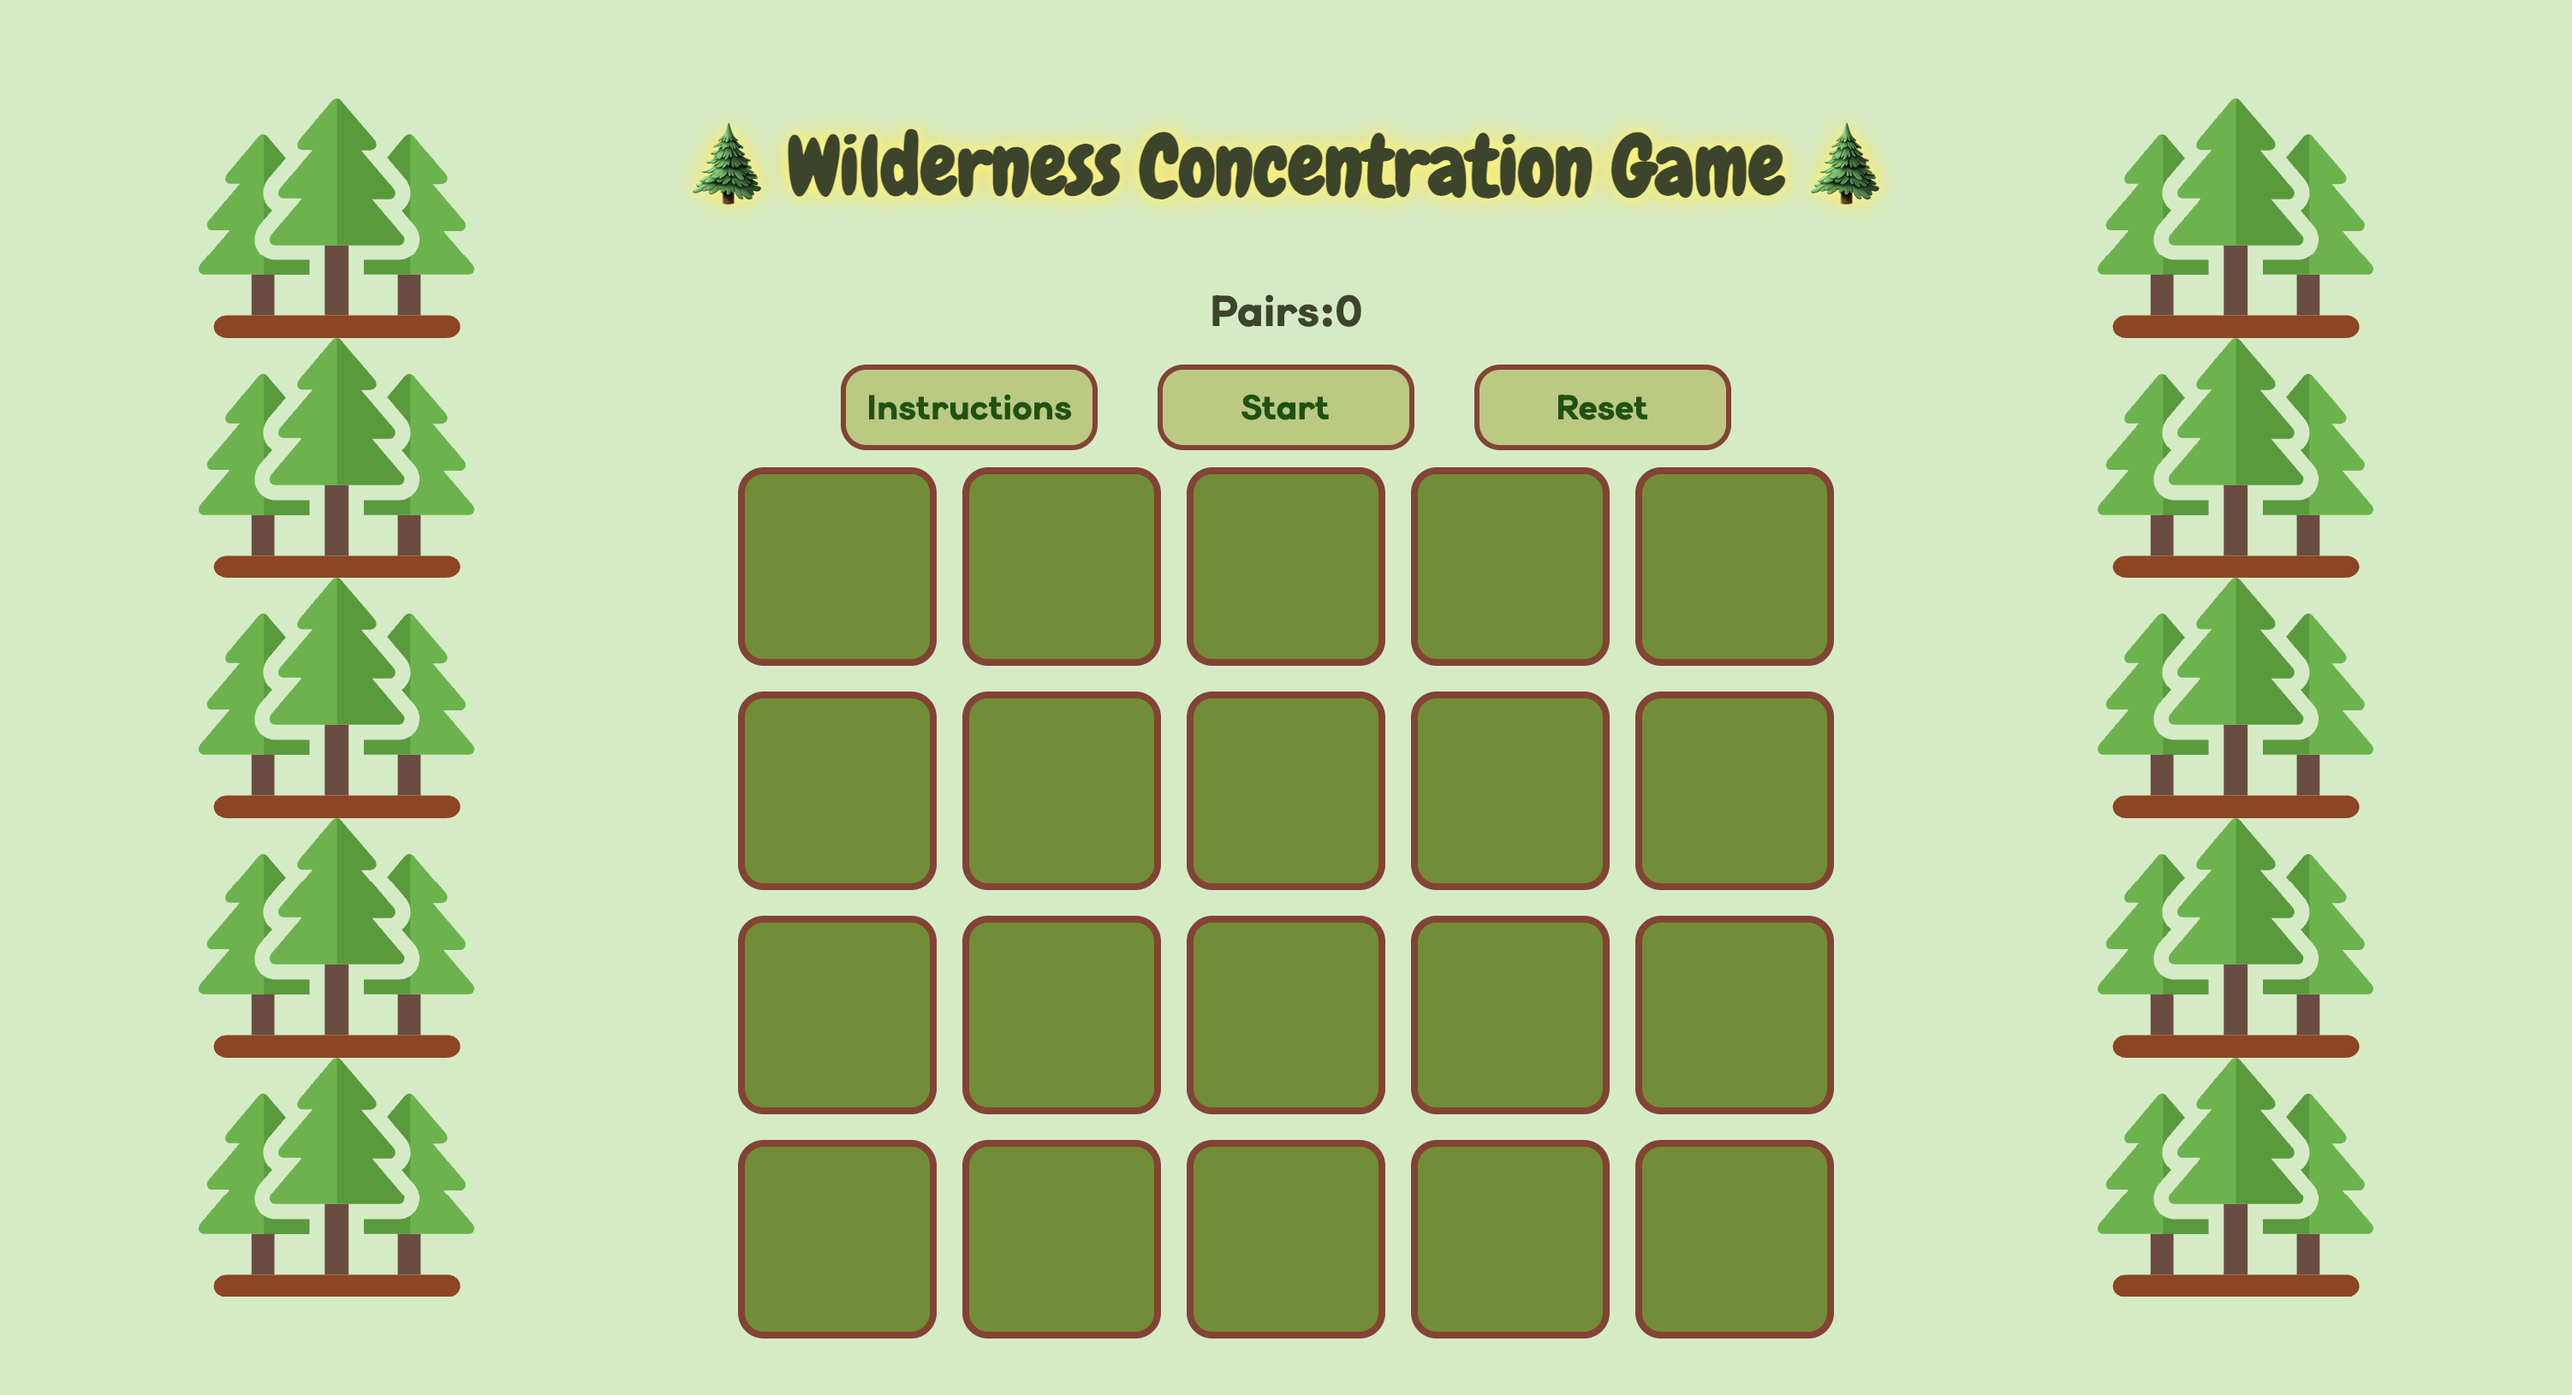
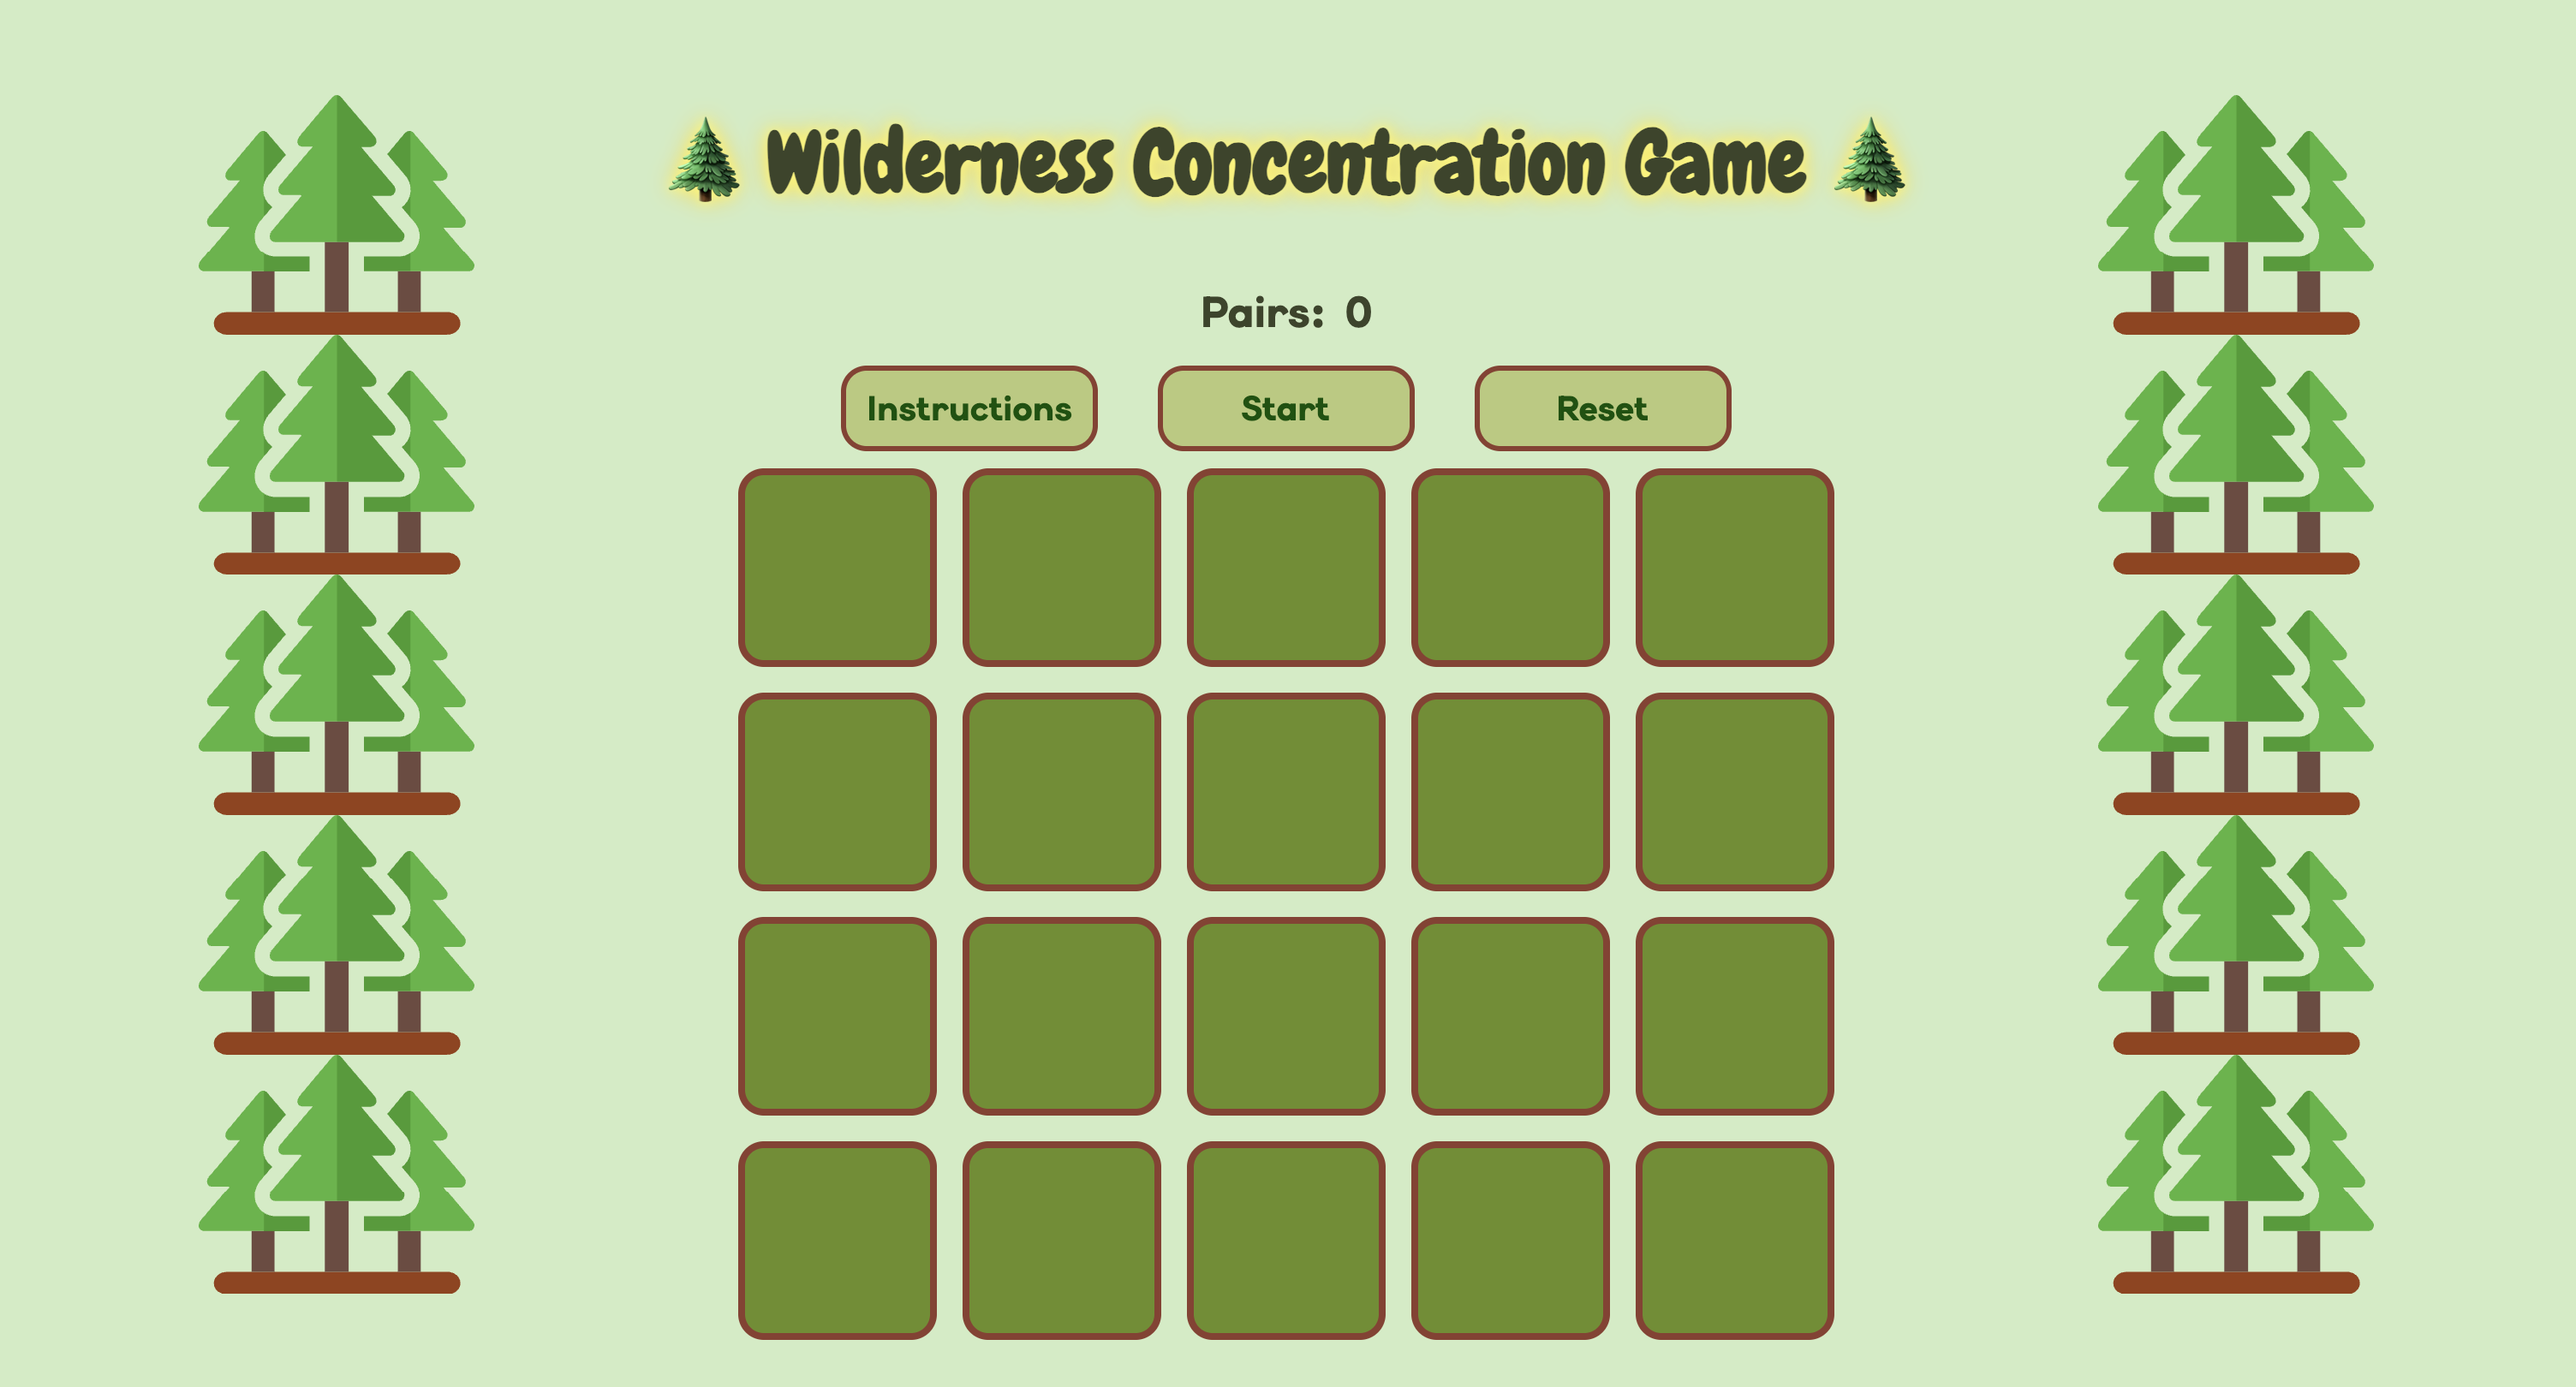
finishes reviewing javaScript, html, css and README files

diff --git a/js/app.js b/js/app.js
@@ -45,7 +45,6 @@ const jsConfetti = new JSConfetti();
 /*---------------------------- Variables (state) ----------------------------*/
 let boardItems;  
 let numPairs;
-let matchPair;  
 let winner;
 let gameOver;  
 let playerChoice1;
@@ -63,27 +62,25 @@ const messageElement = document.querySelector('#message');
 const boardElement = document.querySelector('.board');
 const resetBtnElement = document.querySelector('#reset');
 const startElement = document.querySelector('#start');
-const timerElement = document.querySelector('.timer-display')
+const timerElement = document.querySelector('.timer-display');
 const instElement = document.querySelector('#instructions');
 const modalElement = document.querySelector('#instructions-modal');
 const exitElement = document.querySelector('#exit');
 
 /*-------------------------------- Functions --------------------------------*/
 function init() {
-
     // The emojis will be all hidden from start
     boardItems = ['', '', '', '', '', '', '', '', '', '', '', '', '', '', '', '', '', '', '', ''];  
     
     shuffleGame();
     numPairs = 0;
-    matchPair = false;
     winner = false;
     gameOver = false;
     playerChoice1 = null;
     playerChoice2 = null;
     prevPlayerChoice1 = null;
     prevPlayerChoice2 = null;
-    matchedItems = [];  // It will be used to store the matched pairs and prevent them to be clicked again
+    matchedItems = [];  // It will be used to store the matched pairs and prevent them from being clicked again
     resetTimer();
     render();
 };
@@ -119,40 +116,33 @@ function updateBoard() {
 // Create a function to update the message based on the progress of the game
 function updateMessage() {
 
-    if(!winner && !gameOver && matchPair) {   
+    if(!winner && !gameOver) {   
         // Update the message with the new number of pairs
-        messageElement.textContent = `Pairs:${numPairs}`
-    } else if(!winner && !gameOver && !matchPair) {
-        // Update the message with the new number of tries
-        messageElement.textContent = `Pairs:${numPairs}`
+        messageElement.textContent = `Pairs: ${numPairs}`;
     } else if(winner) {
         // Update the message congratulating the player for winning the game
-        messageElement.textContent = `Congratulations! You just won the game!`
+        messageElement.textContent = `Congratulations!!! You just won the game!`;
     } else {
         // Update the message letting the player know that the game is over
-        messageElement.textContent = `Game Over!`
+        messageElement.textContent = `Game Over! Try it again!`;
     }
 };
 
 // Create a function to handle the clicks
 function handleClick(event) {
 
-    // Exit the function if the start button has not been clicked yet
-    if (!clickedStart) {
+    // Exit the function if the start button has not been clicked yet,
+    // or if the game is over
+    if (!clickedStart || gameOver) {
         return;
     }
     
-    // Exit the function if the game is over
-    if (gameOver) {
-        return;
-    }
-
-    // Check if the clicked element is an emoji, exit otherwise
+    // Check if the clicked element is a hidden emoji, exit otherwise
     if (!event.target.classList.contains('emoji')) {
         return;
     }
     
-    // Set the emoji index
+    // Get clicked emoji index
     const emojiIdx = parseInt(event.target.id);
 
     // Ignore clicks on matched emojis
@@ -160,7 +150,7 @@ function handleClick(event) {
         return;
     }
 
-    // Make sure the player is not able to click the same emoji twice for the same turn
+    // Make sure the player is not able to click the same emoji twice during the same turn
     if (emojiIdx === playerChoice1 || emojiIdx === playerChoice2) {
         return;
     }
@@ -173,7 +163,7 @@ function handleClick(event) {
         prevPlayerChoice2 = null;
     }
 
-    // Deal with the current choice
+    // Store the current choice
     if (playerChoice1 === null) {
         playerChoice1 = emojiIdx;
     } else if (playerChoice2 === null) {
@@ -192,44 +182,31 @@ function handleClick(event) {
 };
 
 // Create a function to show the element 
-function showElement(idx) {
-    
+function showElement(idx) {   
     boardItems[idx] = pairs[idx]; 
-    
 };
 
 // Create a function to check the choices and if the player wins or not
 function checkGameState() {
     
-    // Check if there is a match, if so do not hide matched emojis
+    // Check if there is a match
     if (pairs[playerChoice1] === pairs[playerChoice2]) {
-        
-        // There is a match
-        matchPair = true;
-
          // Play the match audio right away
         playMatchAudio()
-
         // Increase the number of pairs
         numPairs += 1;
-
+        // Add the matched elements to the matchedItems array
         matchedItems.push(playerChoice1, playerChoice2);
-
         // In this case, there's no need to hide the emojis again during the next click,
         // so, reset the variables below
         prevPlayerChoice1 = null;
         prevPlayerChoice2 = null;
-        
-    // Hide emojis otherwise    
+      
+    // There is a mismatch otherwise        
     } else {
-
-        // There is no match
-        matchPair = false;
-
         // Play the mismatch audio right away
         playMismatchAudio();
-
-        // If the cards don't match, hide them during next click
+        // Since the emojis don't match, hide them during next click
         prevPlayerChoice1 = playerChoice1;
         prevPlayerChoice2 = playerChoice2;
     }
@@ -238,19 +215,15 @@ function checkGameState() {
     playerChoice1 = null;
     playerChoice2 = null;
 
-
     // Check if the player wins
     if (numPairs === pairs.length/2) {
         winner = true;
-
         // Play the winner audio right away
         playWinnerAudio()
-
         // Release confetti
         jsConfetti.addConfetti()
     }
 };
-
 
 // Create a function to set up timer details
 function timerDetails() {
@@ -258,41 +231,37 @@ function timerDetails() {
     timerElement.textContent = countDown + " secs ";
 
     if (countDown <= 0) {
-
         gameOver = true;
 
         render();
-
         playGameOverAudio()
 
         // Use the same library for the confetti,
         // but with skulls when the game is over
         jsConfetti.addConfetti({
             emojis: ['💀', '☠'],
-            emojiSize: 60,
+            emojiSize: 100,
             confettiNumber: 20
         })
 
         resetTimer();
     }
+
     countDown -= 1;
 
     // If the player wins, freeze the timer 
-    render();
     if(winner) {
         clearInterval(intervalTime);  // Stops the timer
     }
-
 }
 
 // Create a function to set up a countdown for the game
 function setTimer() {
 
-    // If the game is over, click the `Reset` button first to
-    // be able to trigger the countdown again by clicking the `Start` button
+    // If the game is over, click the Reset button first to
+    // be able to trigger the countdown again by clicking the Start button
     if (!gameOver) {
         intervalTime ??= setInterval(timerDetails, 1000);
-
         // Start the game once the button `Start` has been clicked
         clickedStart = true;
     } 
@@ -304,19 +273,15 @@ function resetTimer() {
     clearInterval(intervalTime);  // Stops the timer
 
     timerElement.textContent = "";
-
     countDown = 60;
-
     intervalTime = null;  // Set it to null to be able to create a new interval
-
     clickedStart = false;
 }
 
 // Create a function to play the match audio
 function playMatchAudio() {
 
-    // Reset the sound if already played
-    matchAudio.currentTime = 0;
+    matchAudio.currentTime = 0; // Reset the sound if already played
     matchAudio.volume = .1;
     matchAudio.play();
 }
@@ -324,7 +289,6 @@ function playMatchAudio() {
 // Create a function to play the mismatch audio
 function playMismatchAudio() {
 
-    // Reset the sound if already played
     mismatchAudio.currentTime = 0;
     mismatchAudio.volume = .1;
     mismatchAudio.play();
@@ -333,7 +297,6 @@ function playMismatchAudio() {
 // Create a function to play the winner audio
 function playWinnerAudio() {
 
-    // Reset the sound if already played
     winnerAudio.currentTime = 0;
     winnerAudio.volume = .1;
     winnerAudio.play();
@@ -341,8 +304,7 @@ function playWinnerAudio() {
 
 // Create a function to play the game over audio
 function playGameOverAudio() {
-
-    // Reset the sound if already played
+    
     gameOverAudio.currentTime = 0;
     gameOverAudio.volume = .1;
     gameOverAudio.play();
@@ -353,15 +315,10 @@ boardElement.addEventListener('click', handleClick);
 resetBtnElement.addEventListener('click', init);
 startElement.addEventListener('click', setTimer);
 
-
-// For a popup window to show the game instructions to the player
+// For the popup window to show the game instructions to the player
 instElement.addEventListener('click', () => {
     modalElement.style.display = 'block';
 });
-
 exitElement.addEventListener('click', () => {
     modalElement.style.display = 'none';
 });
-
-let test = new Audio('./media/match.mp3');
-test.play().catch(err => console.log(err));

diff --git a/css/style.css b/css/style.css
@@ -18,9 +18,8 @@ body {
 }
 
 h1 {
-  /* text-align: center; */
   font-family: 'Chewy', cursive; 
-  font-size: 3rem; 
+  font-size: 50px; 
   color: #3B4429; 
 }
 
@@ -95,10 +94,9 @@ h2 {
 
 .timer-display {
   position: absolute;
-  right: -90px;
+  right: -80px;
   font-size: 25px;
-  color:#006400;
-  /* width: 100px; */
+  color: #3B4429;
   text-align: center;
   font-weight: 700;
 }
@@ -141,13 +139,14 @@ h2 {
 
 .modal-content p {
   font-weight: 800;
+  font-size: 18px;
 }
 
 .modal-content ul {
   text-align: left;
   padding-left: 20px;     
   color: #2C5F2D;
-  font-size: 16px;
+  font-size: 17px;
   line-height: 1.8;
 }
 
@@ -173,7 +172,7 @@ h2 {
 }
 
 .image-pattern.right {
-  right: 8%
+  right: 8%;
 }
 
 /* Media query for small screens */
@@ -188,7 +187,6 @@ h2 {
     font-size: 16px;
   }
 
-  /* Make buttons smaller */
   #start,
   #reset,
   #instructions {

diff --git a/README.md b/README.md
@@ -4,7 +4,7 @@
 
 ## 1. Game Description
 
-The Wilderness Concentration Game is a nature-themed memory game. Like the traditional version, all the cards begin face-down, and the goal is to uncover and match all pairs. For the Wilderness game, a total of 10 pairs of emojis were selected.
+The Wilderness Concentration Game is a nature-themed memory game. Like the traditional version, all the cards begin face-down, and the goal is to uncover and match all pairs. The player can only select two cards per turn. In this version, a total of 10 pairs of emojis were included.
 
 Once the player clicks **Start**, the 60-second countdown begins. From there, it’s a race against the clock to find all the matching pairs before time runs out. The **Instructions** button provides a quick overview of how to play, and the **Reset** button lets players restart the game at any time. After the timer has started, clicking **Start** again won’t do anything, since resetting is required before beginning a new round. 
 
